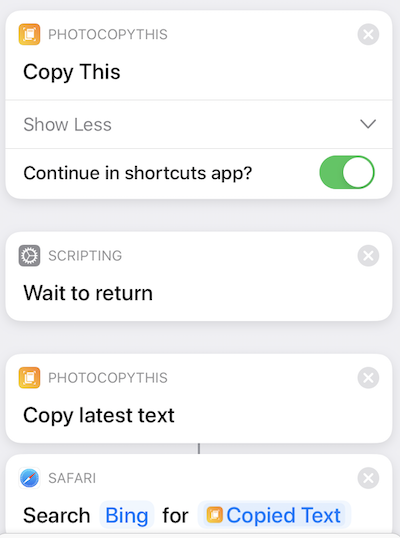
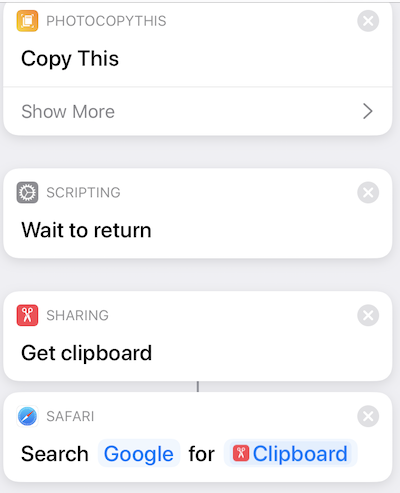
copythis action

diff --git a/_layouts/help.html b/_layouts/help.html
@@ -59,7 +59,7 @@
                   Tap "Show More", Enable "Continue in shortcuts app"
                 </li>
                 <li>
-                  Add "Copy latest text" Action
+                  Add "Get clipboard" Action
                 </li>
                 <li>
                   Add your action. For example, add "Search Web"
